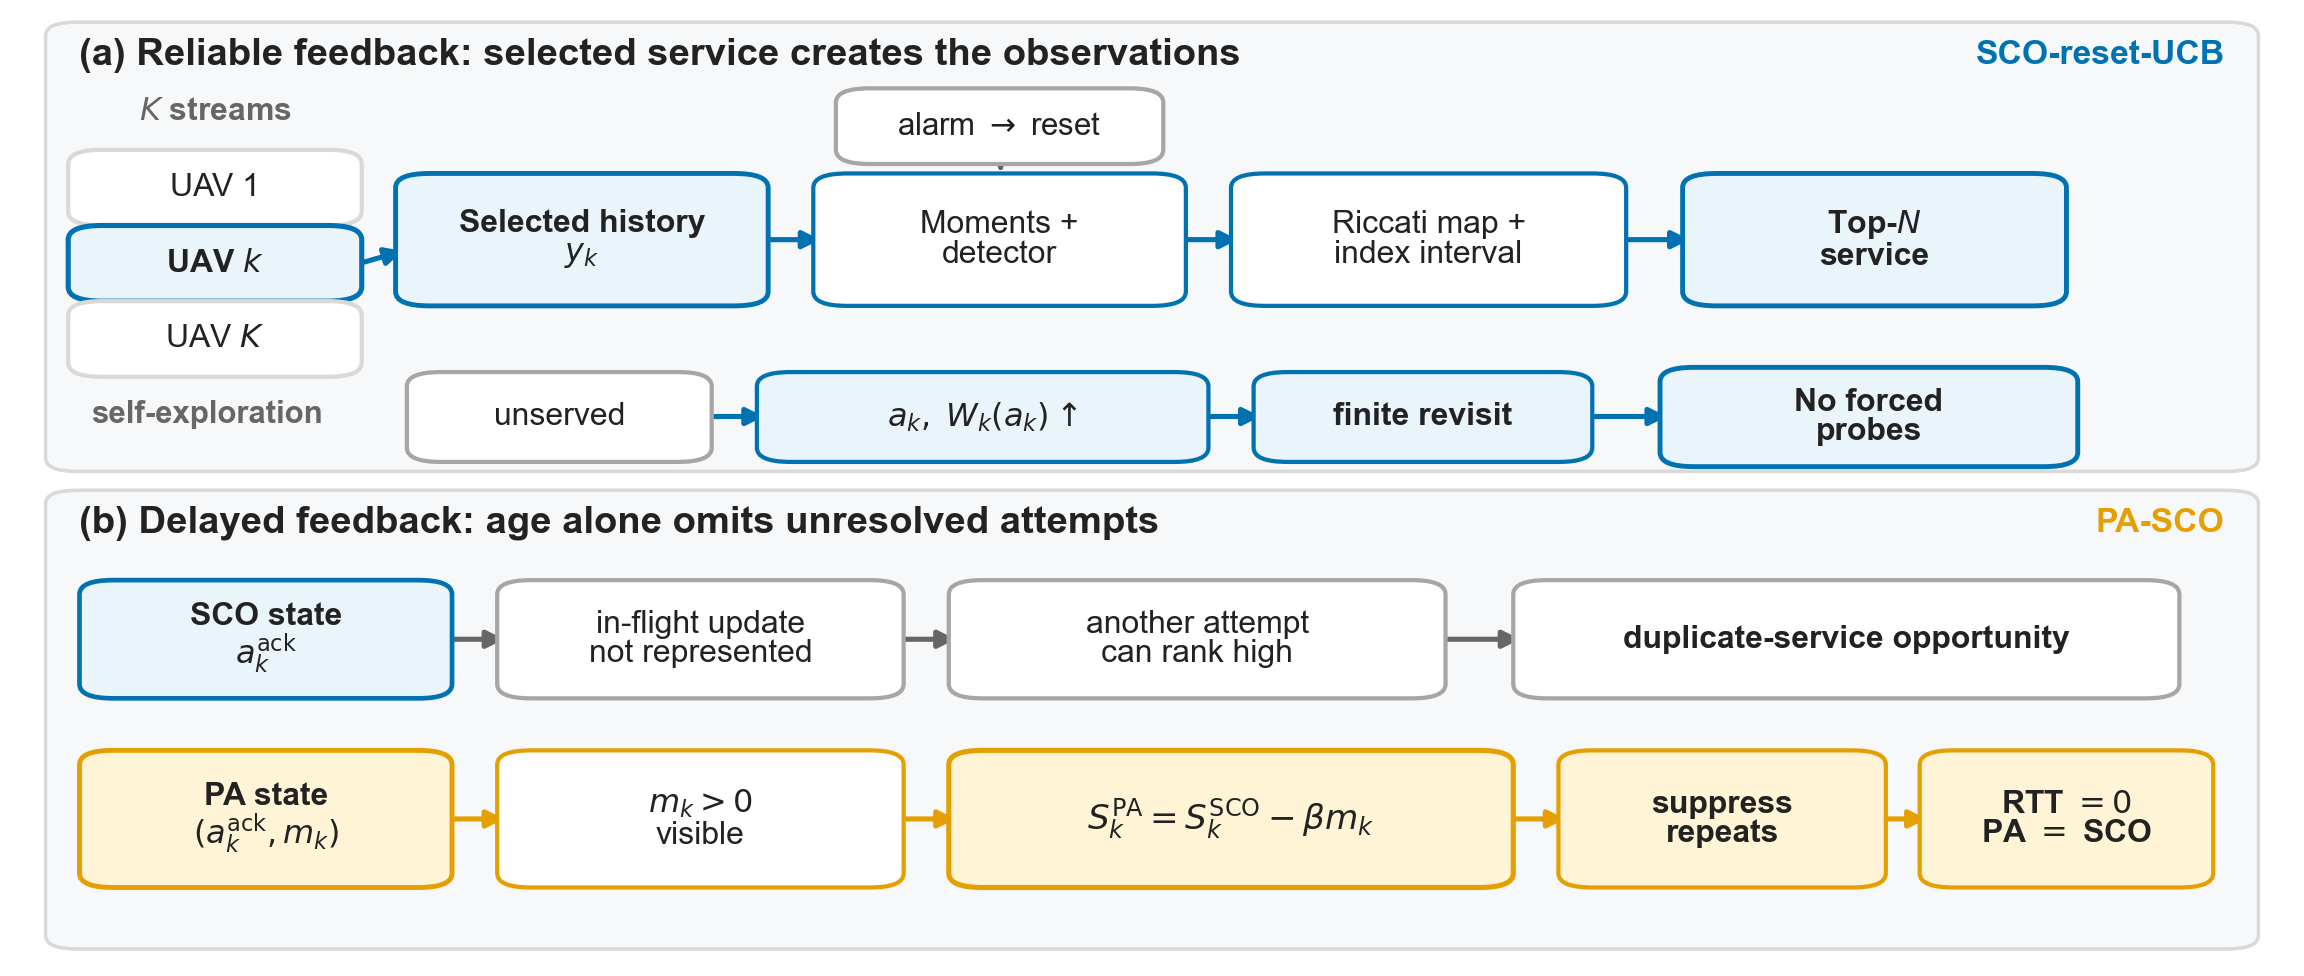
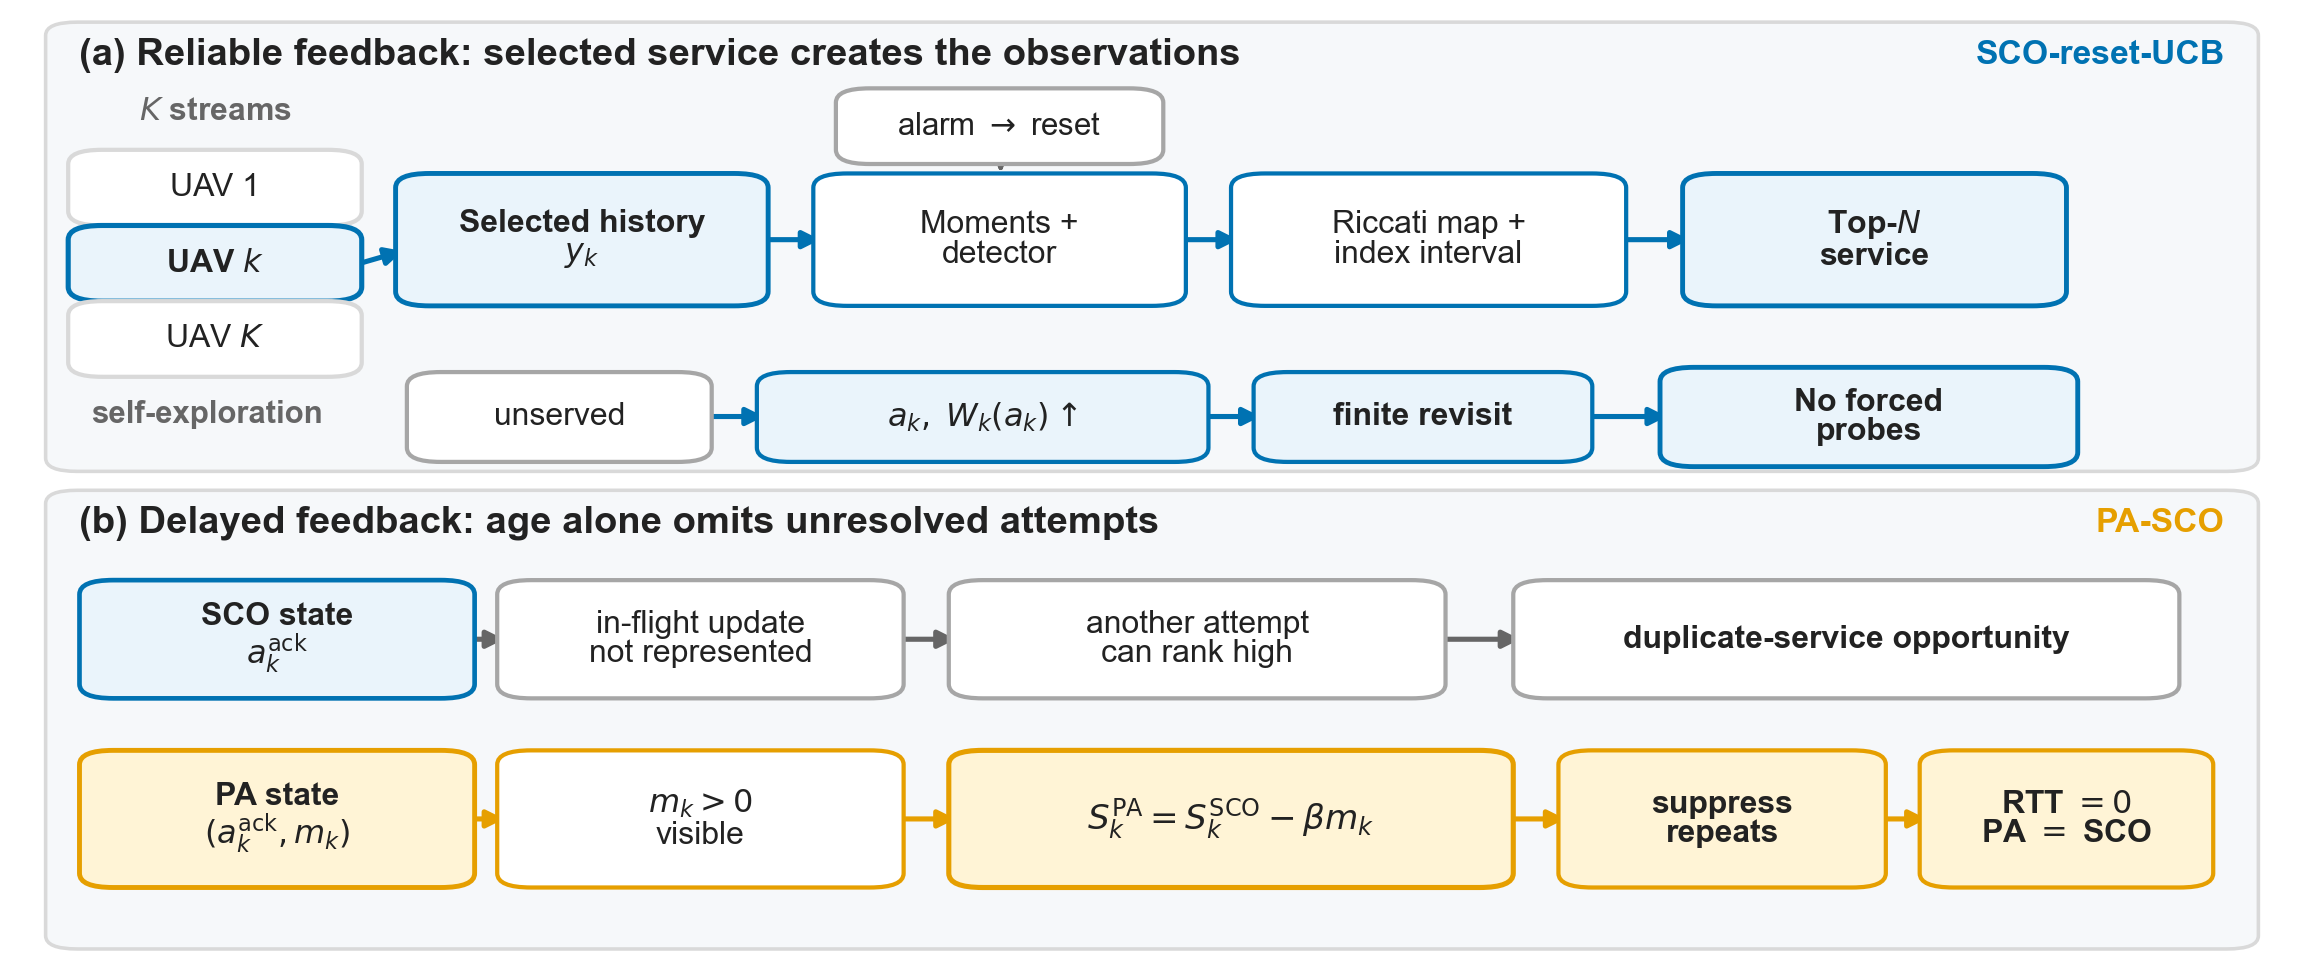
Harden Figure 1 rendering across platforms

diff --git a/figures/make_overview.py b/figures/make_overview.py
@@ -232,7 +232,7 @@ def main() -> None:
     plt.rcParams.update(
         {
             "font.family": "sans-serif",
-            "font.sans-serif": ["Arial", "DejaVu Sans"],
+            "font.sans-serif": ["Arial", "Liberation Sans", "DejaVu Sans"],
             "font.size": 7.2,
             "pdf.fonttype": 42,
             "ps.fonttype": 42,
@@ -475,7 +475,7 @@ def main() -> None:
         "sco-age-state",
         0.035,
         row1_y,
-        0.145,
+        0.155,
         row1_h,
         "SCO state\n" + r"$a_k^{\mathrm{ack}}$",
         edge=BLUE,
@@ -518,7 +518,7 @@ def main() -> None:
         face=WHITE,
         weight="bold",
     )
-    add_arrow(ax, (0.182, row1_c), (0.216, row1_c), color=GRAY)
+    add_arrow(ax, (0.192, row1_c), (0.216, row1_c), color=GRAY)
     add_arrow(ax, (0.382, row1_c), (0.416, row1_c), color=GRAY)
     add_arrow(ax, (0.622, row1_c), (0.666, row1_c), color=GRAY)
 
@@ -530,7 +530,7 @@ def main() -> None:
         "pa-state",
         0.035,
         row2_y,
-        0.145,
+        0.155,
         row2_h,
         "PA state\n" + r"$(a_k^{\mathrm{ack}},m_k)$",
         edge=ORANGE,
@@ -590,7 +590,7 @@ def main() -> None:
         face=PALE_ORANGE,
         weight="bold",
     )
-    add_arrow(ax, (0.182, row2_c), (0.216, row2_c), color=ORANGE)
+    add_arrow(ax, (0.192, row2_c), (0.216, row2_c), color=ORANGE)
     add_arrow(ax, (0.382, row2_c), (0.416, row2_c), color=ORANGE)
     add_arrow(ax, (0.652, row2_c), (0.686, row2_c), color=ORANGE)
     add_arrow(ax, (0.817, row2_c), (0.846, row2_c), color=ORANGE)

diff --git a/docs/RELEASE_CHECKLIST.md b/docs/RELEASE_CHECKLIST.md
@@ -32,7 +32,7 @@
       inherited history or remote configuration.
 - [x] Initialize the publication repository with default branch `main`.
 - [x] Create the remote repository without importing the manuscript workspace.
-- [ ] Add a short repository description and topic tags.
-- [ ] Push this allowlisted directory only.
+- [x] Add a short repository description and topic tags.
+- [x] Push this allowlisted directory only.
 - [ ] Tag `v0.1.0-rc3`; after author/policy sign-off, tag `v1.0.0`.
 - [ ] Archive the release in Zenodo and record the DOI.

diff --git a/CHANGELOG.md b/CHANGELOG.md
@@ -5,6 +5,8 @@
 - aligned the capacity--delay figure, metadata, and documentation with the
   manuscript's delay-unaware immediate-reset reference terminology;
 - expanded the capacity--delay legend to the formal method names;
+- hardened Figure 1 node padding and the Linux font fallback for identical
+  publication QA across local and GitHub Actions renderers;
 - refreshed the frozen manifest, release verification, and distributable
   archive after the final manuscript consistency audit.
 
